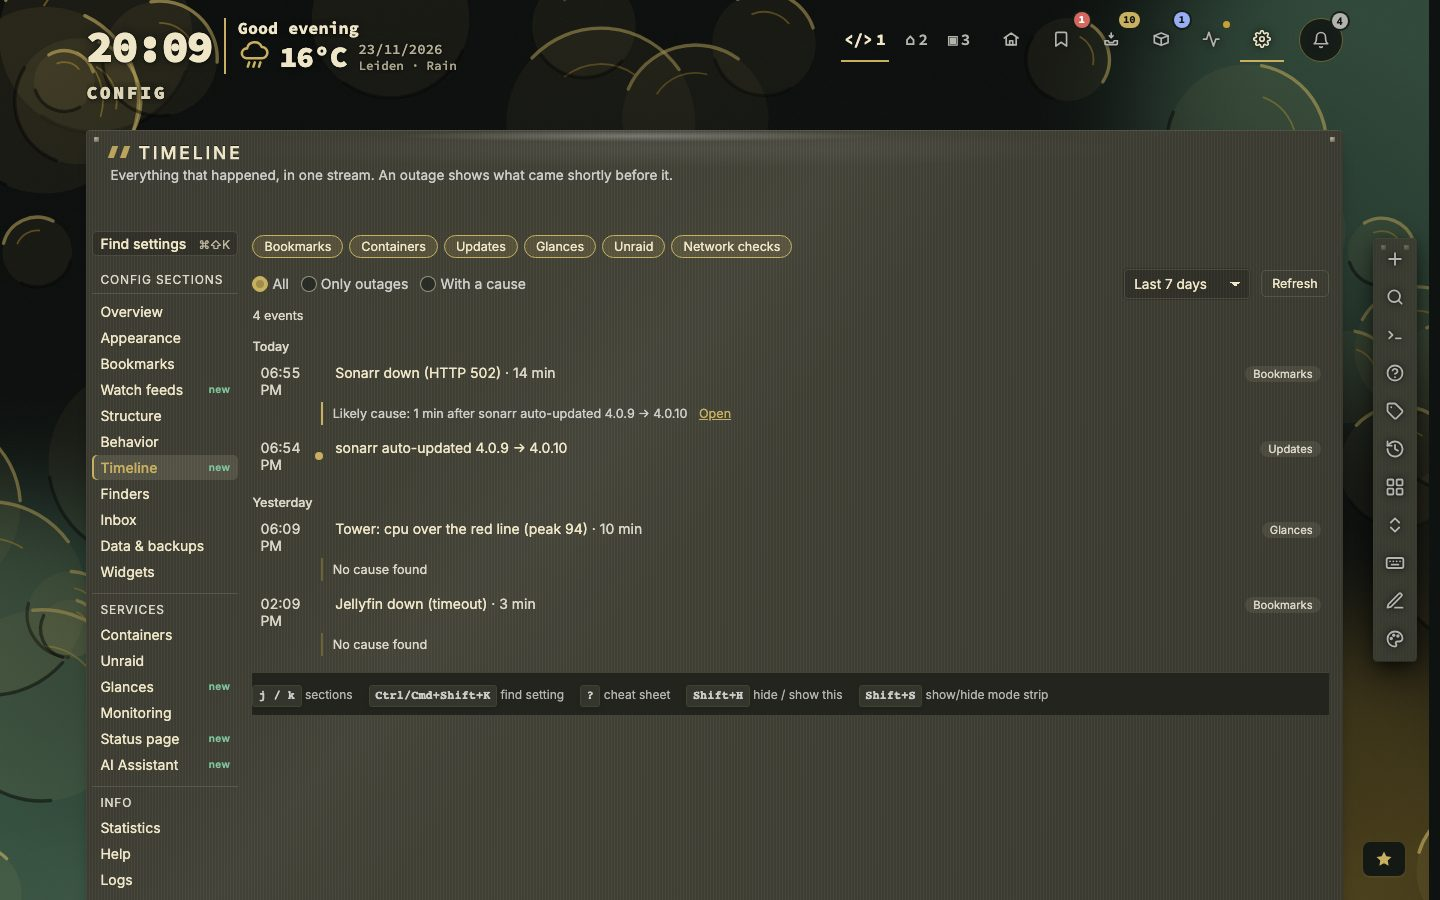
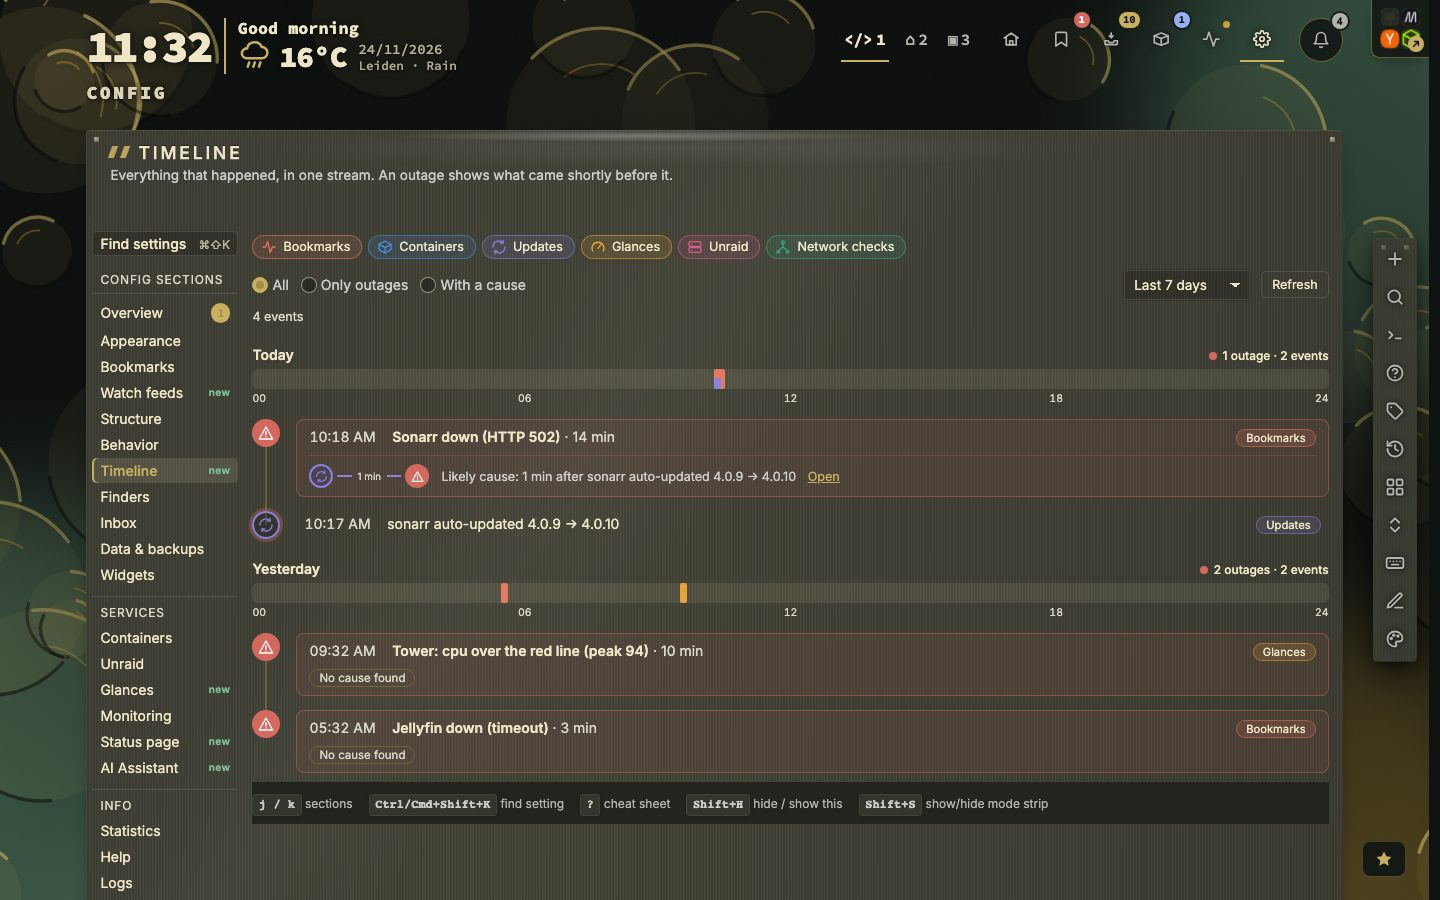
Docs: Quick launch, ignoring an error, O and B, the new timeline look

diff --git a/tests/manual-screenshots-v1-34.spec.js b/tests/manual-screenshots-v1-34.spec.js
@@ -1,0 +1,109 @@
+// @ts-check
+/*
+ * The MANUAL.md screenshots of v1.34.0: the Quick launch panel, Config →
+ * Timeline in its new look, and the line a bookmark's panel shows for an error
+ * it was told not to report. Same harness as the other specs:
+ *
+ *   MANUAL_SHOTS=1 NEXTDASH_DATA_DIR=<seed> PW_WORKERS=8 \
+ *     npx playwright test tests/manual-screenshots-v1-34.spec.js
+ *
+ * /api/timeline is answered by the spec with one invented story (Sonarr went
+ * down a minute after its auto-update), as in the v1.33 spec, so the picture
+ * shows the same thing on every machine; the real route has Go tests.
+ */
+const { test, prepare, settle, shot, snap, openDashboard, DESKTOP, NOW } = require('./helpers/manual-shot-kit');
+
+test.skip(!process.env.MANUAL_SHOTS, 'manual screenshots run on purpose only');
+test.describe.configure({ mode: 'parallel' });
+test.use({ viewport: DESKTOP, reducedMotion: 'reduce' });
+test.setTimeout(120_000);
+
+const SONARR_URL = 'http://sonarr.lan:8989/';
+const at = (min) => NOW.getTime() - min * 60_000;
+
+function timelineAnswer() {
+    const now = NOW.getTime();
+    const update = {
+        id: 'u1', at: at(75), source: 'update', kind: 'update', by: 'auto', from: '4.0.9', to: '4.0.10',
+        subject: { type: 'container', name: 'sonarr' }, link: '#service?container=sonarr', causeOf: ['d1'],
+    };
+    const down = {
+        id: 'd1', at: at(74), end: at(60), durationMs: 14 * 60_000, source: 'health', kind: 'down', outage: true, count: 1,
+        subject: { type: 'bookmark', name: 'Sonarr', key: 'sonarr.lan' }, link: `#service?url=${encodeURIComponent(SONARR_URL)}&page=1`,
+        detail: 'HTTP 502', causes: [{ eventId: 'u1', gapMs: 60_000, relation: 'linked-bookmark', confidence: 'sure' }],
+    };
+    const cpu = {
+        id: 'g1', at: at(26 * 60), end: at(26 * 60 - 10), durationMs: 10 * 60_000, source: 'glances', kind: 'cpu', outage: true,
+        subject: { type: 'glances', name: 'Tower', key: 'main' }, link: '#glances', detail: 'peak 94',
+    };
+    const flap = {
+        id: 'd2', at: at(30 * 60), end: at(30 * 60 - 3), durationMs: 3 * 60_000, source: 'health', kind: 'down', outage: true, count: 1,
+        subject: { type: 'bookmark', name: 'Jellyfin', key: 'jellyfin.lan' }, link: '#service?container=jellyfin', detail: 'timeout',
+    };
+    return {
+        generatedAt: now, from: now - 7 * 86_400_000, to: now, events: [down, update, cpu, flap], related: [],
+        coverage: {
+            docker: { ok: true }, update: { ok: true }, health: { ok: true }, check: { ok: false, reason: 'nothing-recorded' },
+            glances: { ok: true }, unraid: { ok: false, reason: 'not-configured' }, links: { ok: true },
+        },
+    };
+}
+
+test('06 the Quick launch panel', async ({ page }) => {
+    await prepare(page);
+    await openDashboard(page);
+    // The panel as a reader sets it up: a few bookmarks put in by hand, the rest pinned and most opened.
+    await page.evaluate(async () => {
+        const d = window.dashboardInstance;
+        await d.loadAllBookmarks?.();
+        d.settings.quickLaunchAdded = (d.bookmarks || []).slice(0, 3).map((b) => b.url);
+        await d.saveSettings();
+        window.QuickLaunch.sync();
+    });
+    await page.keyboard.press('Shift+Q');
+    const panel = page.locator('.modal.quick-launch-modal');
+    await panel.waitFor();
+    await panel.locator('.quick-launch-tile').first().waitFor();
+    // Pacing for the capture, not a condition: the panel finishes unfolding before the frame is taken.
+    await page.waitForTimeout(800);
+    await snap(page, panel, '06-quick-launch.jpg', { pad: 24 });
+});
+
+test('18 Config → Timeline, the new look', async ({ page }) => {
+    await prepare(page);
+    await page.route('**/api/timeline*', (route) => route.fulfill({ contentType: 'application/json', body: JSON.stringify(timelineAnswer()) }));
+    await openDashboard(page);
+    await page.locator('.config-link-anchor').click();
+    await page.locator('[data-config-section="timeline"]').click();
+    await page.locator('.tl-item').first().waitFor();
+    // Pacing for the capture, not a condition: a transition gets time to finish before the frame is taken.
+    await page.waitForTimeout(800);
+    await settle(page);
+    await shot(page, '18-timeline.jpg');
+});
+
+test('12 an error told to stop reporting', async ({ page }) => {
+    await prepare(page);
+    await openDashboard(page);
+    await page.locator('.library-link-anchor').click();
+    await page.locator('#config-bm-list .config-bm-row').first().waitFor();
+    await settle(page);
+    // Pacing for the capture, not a condition: a transition or a redraw gets time to finish before the frame is taken.
+    await page.waitForTimeout(800);
+    await page.locator('#config-bm-search').fill('GitLab');
+    // Pacing for the capture, not a condition: the list redraws for the search.
+    await page.waitForTimeout(600);
+    await page.locator('#config-bm-list .config-bm-row', { has: page.locator('.config-bm-title', { hasText: /^GitLab$/ }) }).first().click();
+    const panel = page.locator('#config-bm-panel');
+    await panel.locator('.config-bm-panel-title', { hasText: /^GitLab$/ }).waitFor();
+    // The real route a reader takes: the Health tab, then "Ignore this error for good" in its menu.
+    await page.evaluate(() => document.activeElement?.blur?.());
+    await page.keyboard.press('2');
+    const health = panel.locator('[data-bm-pane="health"]');
+    await health.waitFor({ state: 'visible' });
+    await page.keyboard.press('n');
+    await panel.locator('.config-bm-health-ignored').first().waitFor();
+    // Pacing for the capture, not a condition: the panel finishes redrawing.
+    await page.waitForTimeout(600);
+    await snap(page, panel, '12-ignored-error.jpg', { pad: 0 });
+});

diff --git a/MANUAL.md b/MANUAL.md
@@ -115,6 +115,7 @@ This manual describes nextDash as it is now. It follows the same topics as Confi
 - [Editing in place](#editing-in-place)
 - [Usage](#usage)
 - [Recent bookmarks (`*`)](#recent-bookmarks)
+- [Quick launch (`Shift + Q`)](#quick-launch)
 - [Hypr mode](#hypr-mode)
 
 </details>
@@ -1270,7 +1271,10 @@ The form, quick add and the extension all ask. Imports skip duplicates and say h
 | Tags… | `t` | The quick tag picker |
 | Move to… | `m` | Another category or page |
 | Remind me… | `z` | Picks a time to be reminded of the link ([Reminders](#bookmark-reminders)). With one set, the item reads *Reminder: tomorrow 09:00…* |
-| Related links… | | The bookmarks that go with this one ([Related links](#related-links)) |
+| Related links… | `o` | The bookmarks that go with this one ([Related links](#related-links)) |
+| Add label above | `b` | A label row above this bookmark, where its category is in manual order ([§9.2](#92-categories)) |
+| Add to / Remove from Quick launch | `Shift + Q` | Puts the bookmark in the Quick launch panel by hand, or takes it out ([Quick launch](#quick-launch)) |
+| Ignore this error · … for 30 days · Report this error again | | Only while the bookmark shows a failure, or has been told not to report one ([§12.4](#124-alerts)) |
 | Checking | `c` | Off / Periodic / Monitor |
 | Show in list | `r` | Opens the bookmark in the Bookmarks view, with its Health section open |
 | Select / Select all in category | `x` / `X` | Starts a selection |
@@ -1324,7 +1328,7 @@ Hover a bookmark and its preview card ([§4](#the-link-preview-card)) shows a **
 <p align="center"><sub>The related row on a preview card.</sub></p>
 
 - **Open one** with a click; it counts as an open. **Shift + click** goes to its place on the dashboard instead.
-- **From the right-click menu**, **Related links…** opens the same list as a small menu under the row.
+- **From the right-click menu**, **Related links…** opens the same list as a small menu under the row. With the cursor on the row, `o` does the same.
 - **From the palette**, `:related` lists the links that belong with the bookmark under the cursor, and `:related <name>` with one found by name. `Enter` opens a link, `Alt + Enter` goes to it.
 
 How it ranks: a tag counts for less the more of your library carries it, so *homelab* on a third of your bookmarks relates nothing by itself and two middling tags together do. The same goes for a site: forty bookmarks on one big site are not each other's relations by address alone, while two on a small one are. The port is part of the site, because on a home network every service answers on the same address. Two opens close together count as a habit only after several such pairs. The same page under `http` and `https`, or with and without `www.`, is the bookmark itself and never shown as its own relation. The hidden Unsorted page is left out.
@@ -1364,6 +1368,30 @@ Ten tiles fit on a page; a pager in the foot says where you are ("11–20 of 34"
 
 <p align="center"><img src="screenshots/manual.md/06-recent.jpg" alt="The Recent bookmarks sheet: tiles two across, each with a calendar block for the day it was opened, the name and shortcut, weekday and time, its category or page and how often, a pager in the foot and buttons to open what is shown" width="860"></p>
 <p align="center"><sub>Recent bookmarks (<kbd>*</kbd>): what you opened last, and how often.</sub></p>
+
+<a id="quick-launch"></a>
+
+### ⚡ Quick launch (`Shift + Q`)
+
+A panel in the middle of the window with the bookmarks you reach for most. It opens three ways, and all three do the same:
+
+- **`Shift + Q`**, with no bookmark under the cursor;
+- **the corner button**, an element in the top right corner of the window. It shows only in a window of 992 px or wider with a mouse;
+- **circles drawn with the mouse**: move the pointer round in a circle one and a half times (one to three, set in Config).
+
+The panel holds up to twelve bookmarks in rows of equal length, under the headings *Yours*, *Pinned* and *Most opened*. While there is room it ends with a **+** tile; once it is full, an *Add a bookmark* button in the foot does the same. The ones you put in by hand come first, then the ones you pinned, then the ones you open most; **Config → Appearance → Header** says which of the last two fill the rest. It works in every view of the app. `Esc` closes it, and so does a click beside it. With the pointer left outside the panel for five seconds it closes by itself (three, five or ten seconds, or never).
+
+**Putting a bookmark in or taking it out** works three ways: the **+** tile opens a picker with a search field; **`Shift + Q`** with the cursor on a bookmark adds it, or takes it out again; and the right-click menu says **Add to Quick launch** or **Remove from Quick launch**. A bookmark you remove from a filled position stays out until you add it again. A bookmark added from another page stays in the panel.
+
+The panel has a search field (*Find a bookmark*). The first time the corner button is on screen, a note points at it. **Customize** opens its settings, **Got it** puts the note away. Where the button is switched off or not drawn, the note never shows; the key and the circles are in the dashboard tour.
+
+<details>
+<summary>📷 Screenshot — Quick launch</summary>
+
+<p align="center"><img src="screenshots/manual.md/06-quick-launch.jpg" alt="The Quick launch panel: three bookmarks put in by hand under Yours, six under Pinned and three under Most opened with their number of opens, an Add a bookmark button and the line 1 to 9 opens, Esc closes" width="560"></p>
+<p align="center"><sub>Quick launch (<kbd>Shift + Q</kbd>): the bookmarks you added, pinned and open most.</sub></p>
+
+</details>
 
 <a id="hypr-mode"></a>
 
@@ -1410,6 +1438,7 @@ With the cursor on a bookmark, its actions are **plain letters**, as in the Inbo
 | `?` or `F1` | Cheat sheet |
 | `.` | Fold or unfold every category and widget |
 | `Shift + N` | The notification center (the bell), and closes it again |
+| `Shift + Q` | Quick launch, the panel with your bookmarks ([§6](#quick-launch)). With a bookmark under the cursor it adds that bookmark to the panel, or takes it out |
 | `Shift + W` | With no category or widget under the cursor, the news of the feeds you watch (when at least one feed is watched) |
 | `'` or `Shift + O` | Slide a docked action bar away or back |
 | `Shift + F` | Filter this page in place |
@@ -1466,6 +1495,9 @@ With the cursor on a row, a bookmark's own **shortcut** opens it. The letters th
 | `f` | Filter the grid by the bookmark's tag |
 | `r` | Open the bookmark in the Bookmarks view, on its Health tab |
 | `l` | Open its Service overview: health, container, timeline and logs in one window ([§15.13](#1513-the-service-overview)) |
+| `o` | The bookmarks related to this one, in a small menu under the row ([§6](#related-links)). `k` stays up, with `j` |
+| `b` | Put a label above this bookmark, where its category is in manual order ([§9.2](#92-categories)) |
+| `Shift + Q` | Add the bookmark to Quick launch, or take it out ([§6](#quick-launch)) |
 | `Ctrl + C` | Copy the URL |
 | `Ctrl/Cmd + Enter` | Open in a new tab |
 | `t` | Filter the grid by this bookmark's tag |
@@ -2653,6 +2685,22 @@ On the day the digest comes out it goes first, and the daily review card ([§4](
 
 </details>
 
+**Ignoring an error.** A bookmark that shows a failure you do not want to hear about (a status page that always answers 503, a page that keeps missing a keyword) can be told to stop reporting it. In its right-click menu, **Ignore this error** keeps it quiet for good and **Ignore this error for 30 days** for a month; **Report this error again** takes it back. The Health report in the Bookmarks view has the same two actions (`n` and `z`).
+
+- An ignored error is gone from the tile, the search, the tab badge, the bell, the preview card and every count. The tile looks like a bookmark that is not checked.
+- It sends no webhook, no push and no reminder either.
+- There are two kinds: *broken* (the host does not answer, or answers with an error) and *content* (a missing keyword, an unexpected status code). They are separate on purpose. Ignoring a failing keyword does not hide a real outage, and ignoring an outage does not hide a failing keyword.
+- A recovery is never held back, but an outage that was never announced is not announced as over either.
+- In the Bookmarks view the **Health** filter **Ignored** lists these bookmarks. Their panel shows a line for each ignore (*Ignoring "broken" · for good*) with **Report again**, and their state reads **Ignored**, not Healthy.
+
+<details>
+<summary>📷 Screenshot — an ignored error</summary>
+
+<p align="center"><img src="screenshots/manual.md/12-ignored-error.jpg" alt="The Health tab of the GitLab bookmark panel, with the line Ignoring Broken, for good, and a Report again button beside it" width="340"></p>
+<p align="center"><sub>A bookmark told to stop reporting an error says so, and <b>Report again</b> takes it back.</sub></p>
+
+</details>
+
 <a id="125-maintenance-windows"></a>
 
 ### 12.5 Maintenance windows
@@ -2736,6 +2784,7 @@ An outage is the headline of its row, and the row shows what came shortly before
 
 The last two read *Possible cause*, and only when that machine is the Docker host. A row with none says *No cause found*. A restart loop and a flapping monitor are one row each, and the stop and start that an update causes never count as an outage.
 
+- Each source has its own colour and icon. A day has a heading with its number of events and outages, and a strip of 24 hours with a tick for each event. An outage and its cause are joined by a small chain: the cause, the minutes between, the outage. An outage that is the cause of another one on screen is ringed. The 30 day view is more compact.
 - **Sources**, **Show** (*All*, *Only outages*, *With a cause*) and **Period** (24 hours, 7 days or 30 days) narrow the list. Your choice is kept.
 - **Open** on a row goes to its Service overview ([§15.13](#1513-the-service-overview)), to Glances or to Unraid.
 - A source that cannot reach as far back as the period says so (*recorded since …*). The raw checks of a network check go back about three days.
@@ -2745,7 +2794,7 @@ The last two read *Possible cause*, and only when that machine is the Docker hos
 <details>
 <summary>📷 Screenshot — Config → Timeline</summary>
 
-<p align="center"><img src="screenshots/manual.md/18-timeline.jpg" alt="Config, Timeline: the filters for sources, what to show and the period, and a stream where Sonarr down for 14 minutes is the headline of a row that says it came one minute after an automatic update to 4.0.10" width="860"></p>
+<p align="center"><img src="screenshots/manual.md/18-timeline.jpg" alt="Config, Timeline: the filters for sources, what to show and the period, and a stream grouped by day, each day with a strip of 24 hours and a tick for every event, where Sonarr down for 14 minutes is joined by a small chain to the automatic update to 4.0.10 that came one minute before it" width="860"></p>
 <p align="center"><sub>An outage with its likely cause: the update that came a minute before it.</sub></p>
 
 </details>
@@ -4668,6 +4717,8 @@ Small drawings beside the shape settings show what a value looks like.
 See [§4](#4-the-dashboard) for what each part does. The settings:
 
 - **Header** tab, panels **Header** and **Browser tab & branding** — button style (plain or boxed), page tabs on/off, page names in tabs, page switcher style, page tabs before *+N*, the dashboard title, and chips for the dashboard, inbox, config and Bookmarks-view buttons. The browser tab sits in the second panel: the page name in the browser title, a custom title and the favicon upload, also used when nextDash is installed as an app. Where the clock and weather stand is set on Date & weather ([§17.8](#178-date-and-weather)).
+
+The **Header** tab also has a **Quick launch** panel ([§6](#quick-launch)): show the corner button, open the panel by drawing circles with the mouse, how many circles it takes (1 to 3 in halves), what fills the panel beyond the bookmarks you added (pinned, then most opened; pinned only; most opened only) and when it closes on its own (never, 3, 5 or 10 seconds).
 - **Action bar** tab — **Show the action buttons** leads, since it decides whether the rest matters; then where the fixed buttons stand (a column on the right by default), **Button size** (extra small to extra large; medium by default, one step up from the 28 px squares the bar had, which are now *small*), action buttons before *+N*, show the key on each button (off for new installs), slide a docked bar away after loading (2 seconds by default), how the buttons come into view each time the bar appears (off by default; a dropdown — picking a style plays it on the real bar at once), and one chip per button. See [§4](#4-the-dashboard) for what sliding away looks like and how the bar comes back.
 
 Each chip group has **Show all / Hide all**.

diff --git a/README.md b/README.md
@@ -69,7 +69,7 @@ nextDash is a bookmark dashboard that also knows your Docker host. The link to S
 
 1. **Containers** — the Containers view (`Shift + C`, `#docker`) lists every container on the host: a status glow, CPU, RAM, size on disk, ports, its web UI, healthcheck results and a timeline of what happened to it. The **Service overview** (`:service`, or `l` on a bookmark) puts a service's bookmark, monitor, container and release feed on one screen. Start, stop, restart, update, roll back or follow its logs from the keyboard, one container, a compose stack or a whole selection at a time.
 2. **Bookmarks** — each container's web UI is matched to the bookmark you already have for it: by port, by subdomain behind a reverse proxy, or by name — or by hand. The container row carries that bookmark's health mark; the bookmark's side panel says which container it **runs in**. Open the service from the dashboard, from search, or with `:docker sonarr open`.
-3. **Health** — set that bookmark to **Monitor** and the server checks it on its own, as often as every five minutes: 30 days of uptime and response times, outages, certificate expiry, a phrase the page must contain, the status codes that count as healthy, and drift when a page turns into something else. **Config → Timeline** lines every outage up with what came shortly before it, such as an update. A service behind a sign-in can be checked on a status address, with a stored key.
+3. **Health** — set that bookmark to **Monitor** and the server checks it on its own, as often as every five minutes: 30 days of uptime and response times, outages, certificate expiry, a phrase the page must contain, the status codes that count as healthy, and drift when a page turns into something else. **Config → Timeline** lines every outage up with what came shortly before it, such as an update. A service behind a sign-in can be checked on a status address, with a stored key. A failure you do not want to hear about can be ignored for good or for 30 days, and stays out of the bell, the counts and the alerts. *[Manual §12.4](MANUAL.md#124-alerts)*
 4. **Alerts and push** — a site that goes down and a container that crashes, keeps restarting, turns unhealthy or runs hot reach you the same way: ntfy, Pushover, Gotify, Telegram, Slack, Discord, Apprise, your own JSON receiver, or a push notification on your phone, even with the dashboard closed. Recovery is announced too, and a host that takes ten services down sends one message, not ten.
 
 **Keeping it current and tidy.** Image update checks run on an interval and show the release notes behind an update. Skip a version, hold a container, or let nextDash update it in a nightly window: each update is watched for five minutes and rolled back when the container stops, loops or turns unhealthy. The **Disk** tab shows what images, volumes, build cache and bind mounts take up, and clears it after naming what goes.
@@ -482,6 +482,7 @@ Each line links to the part of the [manual](MANUAL.md) that explains it.
 
 - Everything is reachable from the keyboard: one rule for the shortcuts and a searchable cheat sheet on `?`. *[Manual §7](MANUAL.md#7-keyboard)*
 - A key legend under every view keeps its keys in sight (`Shift + H` switches it off), a strip beside the page name says what your keys do right now (`Shift + S`), `?` opens keys and help for the page you are on, a dashboard tour of ten steps plays again with `Shift + K`, a four-step keyboard tour with `:tour keyboard`, and after an update the **What's new** window gives the main change of a release a spotlight. *[Manual §7](MANUAL.md#7-keyboard)*
+- **Quick launch** (`Shift + Q`) is a panel in the middle of the screen with up to twelve bookmarks: the ones you added, the ones you pinned and the ones you open most. A button in the corner and circles drawn with the mouse open it too. *[Manual §6](MANUAL.md#quick-launch)*
 - One panel for search, commands and finders, plus search from the browser's address bar. *[Manual §8](MANUAL.md#8-search-commands-and-finders)*
 - **Usually now** puts the bookmarks you tend to open around this time of day at the top of the empty search panel, and `→` on a result unfolds what you can do with it: open, open in a new tab, edit, copy the address, show in the list, move. *[Manual §8](MANUAL.md#8-search-commands-and-finders)*
 - Filters for tag, category, page, status, added and opened — each also in the negative. *[Manual §8.2](MANUAL.md#82-filters)*
